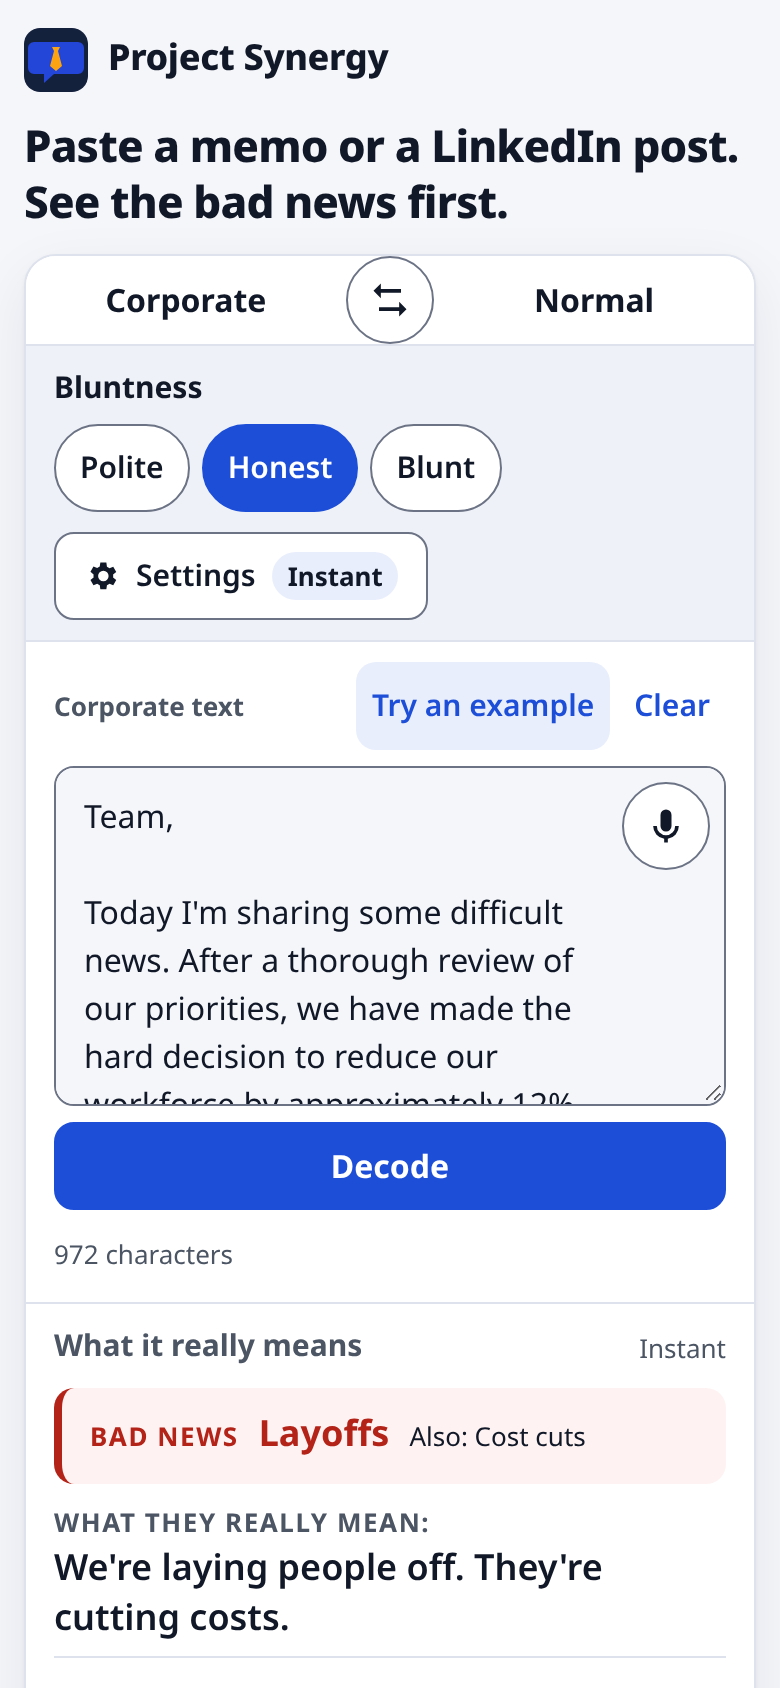
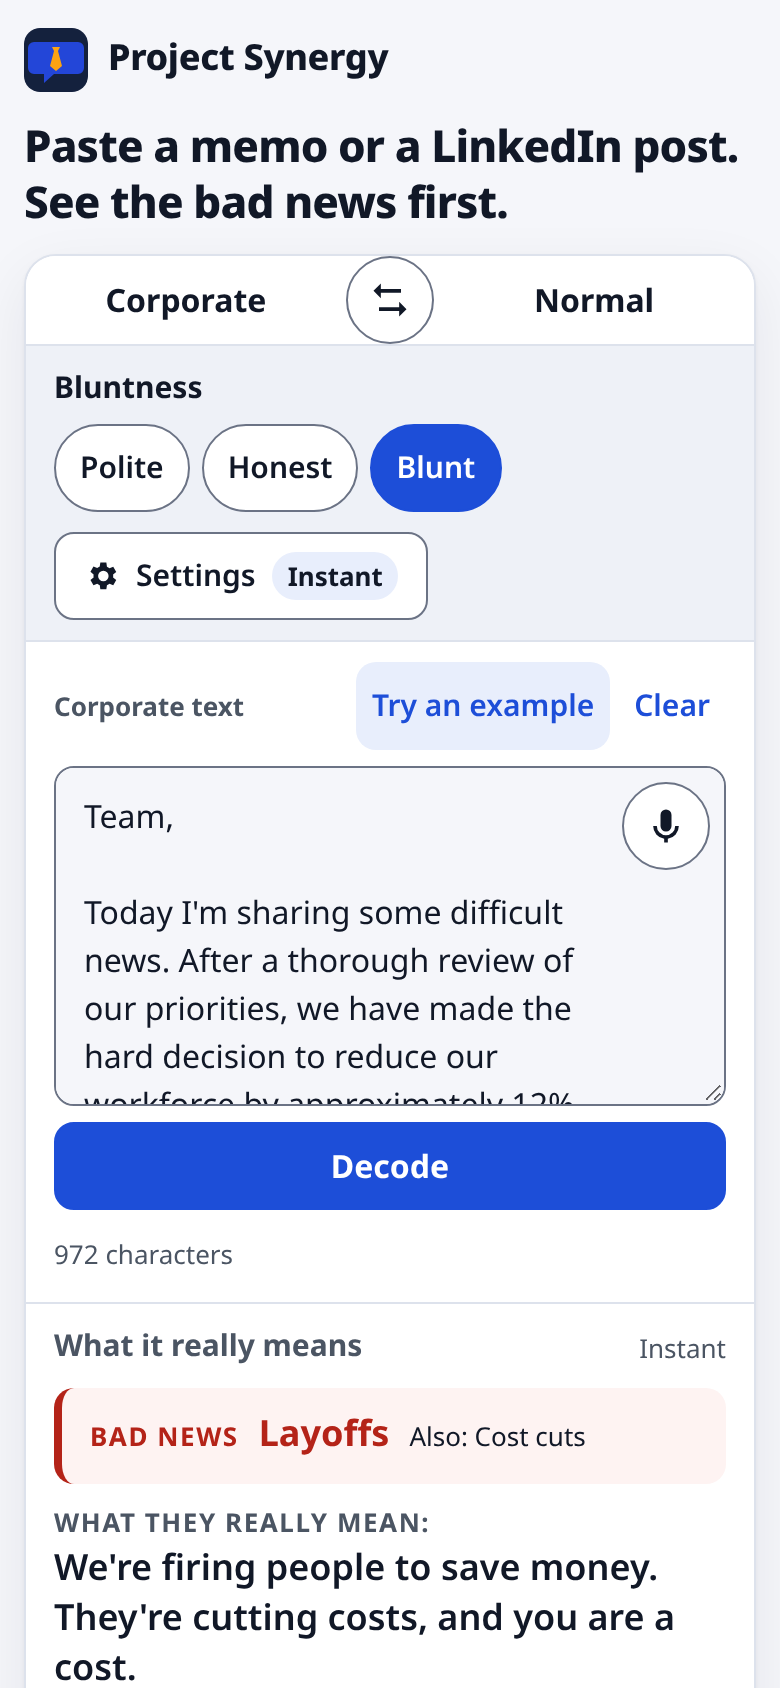
Don't split a glued clause after a conjunction ('at 2 so ignore it')

Changed region(s): [[0.0615, 0.9242, 0.8615, 1.0], [0.2462, 0.2464, 0.6462, 0.3081]]

diff --git a/site/prepass.js b/site/prepass.js
@@ -43,7 +43,7 @@ export function splitGlued(sentence) {
   const s = strip(sentence);
   if (/[.!?;]\s/.test(s) || s.split(/\s+/).length < 4) return null;
   const m = GLUE.exec(s);
-  if (!m || m.index < 6 || /\b(?:there's|there is|I've|I have|here's)$/i.test(s.slice(0, m.index))) return null;
+  if (!m || m.index < 6 || /\b(?:there's|there is|I've|I have|here's|so|and|but|then|or|just|to|please)$/i.test(s.slice(0, m.index))) return null;
   const left = s.slice(0, m.index).replace(/,$/, "").trim();
   let right = s.slice(m.index + 1).trim();
   right = right
